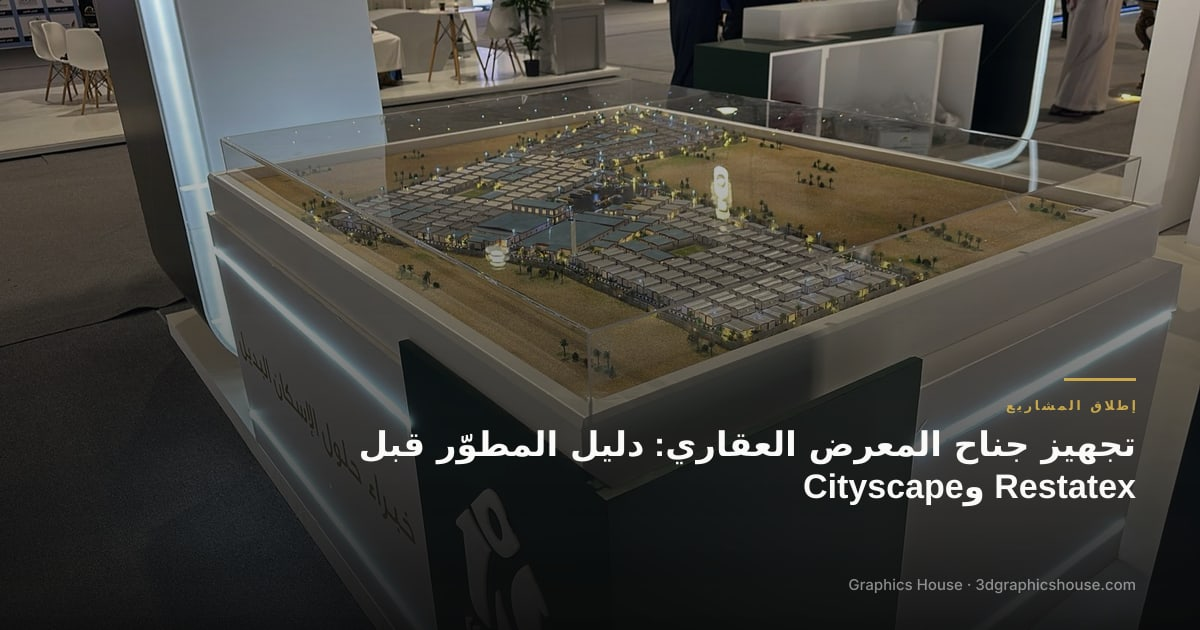
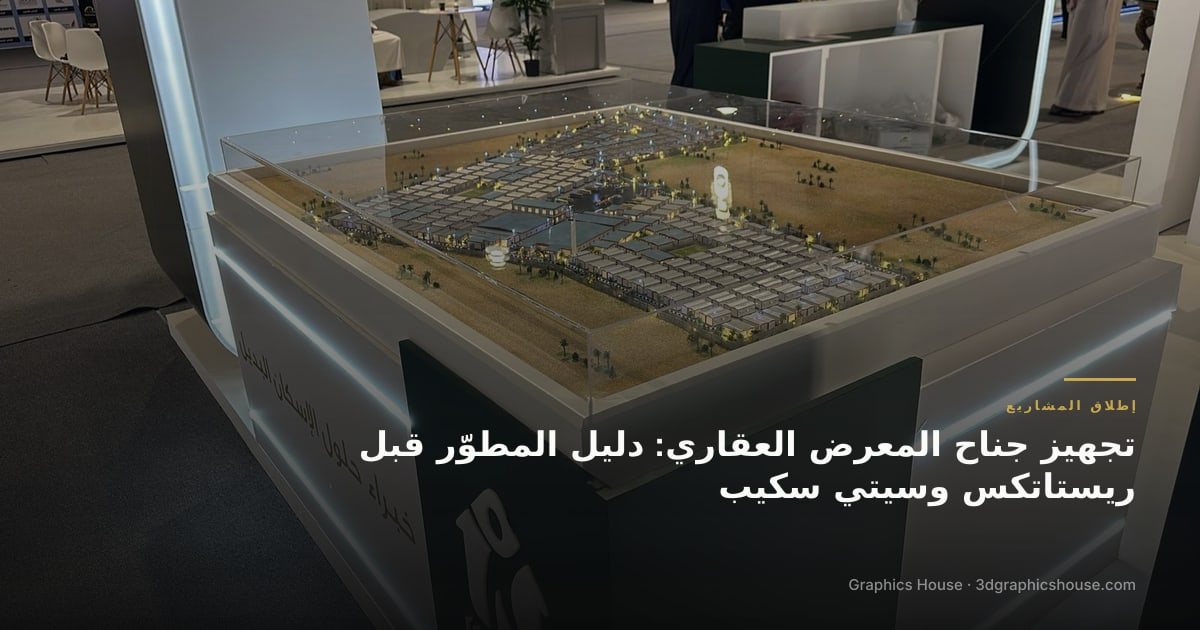
Exhibition guide: Arabic event names in AR title (fix bidi rendering)
Claude-Session: https://claude.ai/code/session_0136g4Ys7m3szXcukPZ2QjGd

Changed region(s): [[0.5858, 0.754, 0.9558, 0.8143]]

diff --git a/insights/articles/real-estate-exhibition-stand-guide.html b/insights/articles/real-estate-exhibition-stand-guide.html
@@ -24,21 +24,21 @@ gtag('config','G-Y67JVE898Z');gtag('config','G-NKM4H1FFBL');
 <link rel="alternate" hreflang="x-default" href="https://3dgraphicshouse.com/insights/articles/real-estate-exhibition-stand-guide-en.html">
 <meta charset="UTF-8">
 <meta name="viewport" content="width=device-width, initial-scale=1.0">
-<title>تجهيز جناح المعرض العقاري: دليل المطوّر قبل Restatex وCityscape | Graphics House</title>
-<meta name="description" content="دليل تجهيز جناح المعرض العقاري في السعودية: العناصر الخمسة، جدول زمني عكسي قبل Restatex وCityscape، المجسم والفيلم والشاشة التفاعلية، وأمثلة من مشاريع حقيقية."/>
+<title>تجهيز جناح المعرض العقاري: دليل المطوّر قبل ريستاتكس وسيتي سكيب | Graphics House</title>
+<meta name="description" content="دليل تجهيز جناح المعرض العقاري في السعودية: العناصر الخمسة، جدول زمني عكسي قبل معرضي ريستاتكس وسيتي سكيب، المجسم والفيلم والشاشة التفاعلية، وأمثلة من مشاريع حقيقية."/>
 <meta name="keywords" content="تجهيز جناح المعرض العقاري, جناح معرض عقاري, مجسم معرض عقاري, Restatex الرياض, كيف أجهز جناح شركة تطوير عقاري في معرض, متى أبدأ تجهيز جناح ريستاتكس, ماذا يحتاج جناح المطور في سيتي سكيب, مجسم تفاعلي لجناح معرض عقاري"/>
-<meta property="og:title" content="تجهيز جناح المعرض العقاري: دليل المطوّر قبل Restatex وCityscape | Graphics House">
-<meta property="og:description" content="دليل تجهيز جناح المعرض العقاري في السعودية: العناصر الخمسة، جدول زمني عكسي قبل Restatex وCityscape، المجسم والفيلم والشاشة التفاعلية، وأمثلة من مشاريع حقيقية.">
+<meta property="og:title" content="تجهيز جناح المعرض العقاري: دليل المطوّر قبل ريستاتكس وسيتي سكيب | Graphics House">
+<meta property="og:description" content="دليل تجهيز جناح المعرض العقاري في السعودية: العناصر الخمسة، جدول زمني عكسي قبل معرضي ريستاتكس وسيتي سكيب، المجسم والفيلم والشاشة التفاعلية، وأمثلة من مشاريع حقيقية.">
 <meta property="og:image" content="https://3dgraphicshouse.com/assets/insights/og/real-estate-exhibition-stand-guide.jpg">
 <meta property="og:url" content="https://3dgraphicshouse.com/insights/articles/real-estate-exhibition-stand-guide.html">
-<meta property="og:image:alt" content="تجهيز جناح المعرض العقاري: دليل المطوّر قبل Restatex وCityscape">
+<meta property="og:image:alt" content="تجهيز جناح المعرض العقاري: دليل المطوّر قبل ريستاتكس وسيتي سكيب">
 <meta property="og:image:width" content="1200">
 <meta property="og:image:height" content="630">
 <meta property="og:type" content="article">
 <meta property="og:site_name" content="Graphics House">
 <meta name="twitter:card" content="summary_large_image">
-<meta name="twitter:title" content="تجهيز جناح المعرض العقاري: دليل المطوّر قبل Restatex وCityscape | Graphics House">
-<meta name="twitter:description" content="دليل تجهيز جناح المعرض العقاري في السعودية: العناصر الخمسة، جدول زمني عكسي قبل Restatex وCityscape، المجسم والفيلم والشاشة التفاعلية، وأمثلة من مشاريع حقيقية.">
+<meta name="twitter:title" content="تجهيز جناح المعرض العقاري: دليل المطوّر قبل ريستاتكس وسيتي سكيب | Graphics House">
+<meta name="twitter:description" content="دليل تجهيز جناح المعرض العقاري في السعودية: العناصر الخمسة، جدول زمني عكسي قبل معرضي ريستاتكس وسيتي سكيب، المجسم والفيلم والشاشة التفاعلية، وأمثلة من مشاريع حقيقية.">
 <meta name="twitter:image" content="https://3dgraphicshouse.com/assets/insights/og/real-estate-exhibition-stand-guide.jpg">
 <meta property="article:published_time" content="2026-11-11">
 <meta property="article:modified_time" content="2026-11-11">
@@ -76,7 +76,7 @@ gtag('config','G-Y67JVE898Z');gtag('config','G-NKM4H1FFBL');
 <link rel="stylesheet" href="../../assets/gh-chat-assistant.css?v=11">
 </head>
 <body class="gh-insights">
-<script type="application/ld+json">{"@context":"https://schema.org","@graph":[{"@type":"Article","headline":"تجهيز جناح المعرض العقاري: دليل المطوّر قبل Restatex وCityscape","description":"دليل تجهيز جناح المعرض العقاري في السعودية: العناصر الخمسة، جدول زمني عكسي قبل Restatex وCityscape، المجسم والفيلم والشاشة التفاعلية، وأمثلة من مشاريع حقيقية.","image":"https://3dgraphicshouse.com/assets/insights/og/real-estate-exhibition-stand-guide.jpg","datePublished":"2026-11-11","dateModified":"2026-11-11","author":{"@type":"Person","name":"إبراهيم سلطان","jobTitle":"المؤسس والرئيس التنفيذي، Graphics House","url":"https://www.linkedin.com/in/ibrahimsultan-me","sameAs":["https://www.linkedin.com/in/ibrahimsultan-me"],"image":"https://3dgraphicshouse.com/assets/authors/ibrahim-sultan.jpg","worksFor":{"@type":"Organization","name":"Graphics House","url":"https://3dgraphicshouse.com"}},"keywords":"تجهيز جناح المعرض العقاري, جناح معرض عقاري, مجسم معرض عقاري, Restatex الرياض, كيف أجهز جناح شركة تطوير عقاري في معرض, متى أبدأ تجهيز جناح ريستاتكس, ماذا يحتاج جناح المطور في سيتي سكيب, مجسم تفاعلي لجناح معرض عقاري","publisher":{"@type":"Organization","name":"Graphics House","logo":{"@type":"ImageObject","url":"https://3dgraphicshouse.com/assets/favicon/og-image.png"}},"mainEntityOfPage":"https://3dgraphicshouse.com/insights/articles/real-estate-exhibition-stand-guide.html","inLanguage":"ar"},{"@type":"BreadcrumbList","itemListElement":[{"@type":"ListItem","position":1,"name":"الرئيسية","item":"https://3dgraphicshouse.com/"},{"@type":"ListItem","position":2,"name":"الرؤى","item":"https://3dgraphicshouse.com/insights/index.html"},{"@type":"ListItem","position":3,"name":"تجهيز جناح المعرض العقاري: دليل المطوّر قبل Restatex وCityscape","item":"https://3dgraphicshouse.com/insights/articles/real-estate-exhibition-stand-guide.html"}]},{"@context":"https://schema.org","@type":"FAQPage","mainEntity":[{"@type":"Question","name":"متى أبدأ تجهيز جناح المعرض العقاري؟","acceptedAnswer":{"@type":"Answer","text":"ابدأ قبل الافتتاح بعشرة إلى اثني عشر أسبوعاً إن كان الجناح سيضم مجسماً معمارياً، لأنه أطول عنصر تنفيذاً. الجناح الذي يعتمد على الشاشات والرندرات فقط يحتاج وقتاً أقل."}},{"@type":"Question","name":"هل يمكن عرض مشروع على الخارطة في معرض قبل رخصة البيع؟","acceptedAnswer":{"@type":"Answer","text":"لا. ينص نظام بيع وتأجير مشروعات عقارية على الخارطة على عدم الإعلان عن المشروع أو إقامة معارض له إلا إذا كان مرخصاً من الهيئة العامة للعقار. تحقق من حالة ترخيصك قبل حجز الجناح."}},{"@type":"Question","name":"ما مقاس المجسم المناسب لجناح المعرض؟","acceptedAnswer":{"@type":"Answer","text":"يحدده حجم الجناح ومسار الزوار حوله ومسافة المشاهدة، لا حجم المشروع وحده. اترك ممراً يسمح للزائر بالدوران حول المجسم. راجع العوامل التي تحدد سعر المجسم ومقاسه."}},{"@type":"Question","name":"هل يحتاج الجناح مجسماً ذكياً أم يكفي مجسم ثابت؟","acceptedAnswer":{"@type":"Answer","text":"المجسم الذكي يستحق تكلفته حين يختار المشتري بين مراحل ووحدات كثيرة. البرج الواحد بأنواع وحدات قليلة يكفيه غالباً مجسم ثابت مفصّل مع رندرات قوية. التفاصيل في متى تحتاج مجسماً ذكياً."}},{"@type":"Question","name":"هل يمكن استخدام عناصر الجناح بعد المعرض؟","acceptedAnswer":{"@type":"Answer","text":"نعم في الغالب. المجسم والفيلم والشاشة التفاعلية تنتقل إلى صالة البيع أو مكتب المبيعات، لذلك يفيد تصميمها من البداية لتعمل في المكانين."}}],"url":"https://3dgraphicshouse.com/insights/articles/real-estate-exhibition-stand-guide.html"}]}</script>
+<script type="application/ld+json">{"@context":"https://schema.org","@graph":[{"@type":"Article","headline":"تجهيز جناح المعرض العقاري: دليل المطوّر قبل ريستاتكس وسيتي سكيب","description":"دليل تجهيز جناح المعرض العقاري في السعودية: العناصر الخمسة، جدول زمني عكسي قبل معرضي ريستاتكس وسيتي سكيب، المجسم والفيلم والشاشة التفاعلية، وأمثلة من مشاريع حقيقية.","image":"https://3dgraphicshouse.com/assets/insights/og/real-estate-exhibition-stand-guide.jpg","datePublished":"2026-11-11","dateModified":"2026-11-11","author":{"@type":"Person","name":"إبراهيم سلطان","jobTitle":"المؤسس والرئيس التنفيذي، Graphics House","url":"https://www.linkedin.com/in/ibrahimsultan-me","sameAs":["https://www.linkedin.com/in/ibrahimsultan-me"],"image":"https://3dgraphicshouse.com/assets/authors/ibrahim-sultan.jpg","worksFor":{"@type":"Organization","name":"Graphics House","url":"https://3dgraphicshouse.com"}},"keywords":"تجهيز جناح المعرض العقاري, جناح معرض عقاري, مجسم معرض عقاري, Restatex الرياض, كيف أجهز جناح شركة تطوير عقاري في معرض, متى أبدأ تجهيز جناح ريستاتكس, ماذا يحتاج جناح المطور في سيتي سكيب, مجسم تفاعلي لجناح معرض عقاري","publisher":{"@type":"Organization","name":"Graphics House","logo":{"@type":"ImageObject","url":"https://3dgraphicshouse.com/assets/favicon/og-image.png"}},"mainEntityOfPage":"https://3dgraphicshouse.com/insights/articles/real-estate-exhibition-stand-guide.html","inLanguage":"ar"},{"@type":"BreadcrumbList","itemListElement":[{"@type":"ListItem","position":1,"name":"الرئيسية","item":"https://3dgraphicshouse.com/"},{"@type":"ListItem","position":2,"name":"الرؤى","item":"https://3dgraphicshouse.com/insights/index.html"},{"@type":"ListItem","position":3,"name":"تجهيز جناح المعرض العقاري: دليل المطوّر قبل ريستاتكس وسيتي سكيب","item":"https://3dgraphicshouse.com/insights/articles/real-estate-exhibition-stand-guide.html"}]},{"@context":"https://schema.org","@type":"FAQPage","mainEntity":[{"@type":"Question","name":"متى أبدأ تجهيز جناح المعرض العقاري؟","acceptedAnswer":{"@type":"Answer","text":"ابدأ قبل الافتتاح بعشرة إلى اثني عشر أسبوعاً إن كان الجناح سيضم مجسماً معمارياً، لأنه أطول عنصر تنفيذاً. الجناح الذي يعتمد على الشاشات والرندرات فقط يحتاج وقتاً أقل."}},{"@type":"Question","name":"هل يمكن عرض مشروع على الخارطة في معرض قبل رخصة البيع؟","acceptedAnswer":{"@type":"Answer","text":"لا. ينص نظام بيع وتأجير مشروعات عقارية على الخارطة على عدم الإعلان عن المشروع أو إقامة معارض له إلا إذا كان مرخصاً من الهيئة العامة للعقار. تحقق من حالة ترخيصك قبل حجز الجناح."}},{"@type":"Question","name":"ما مقاس المجسم المناسب لجناح المعرض؟","acceptedAnswer":{"@type":"Answer","text":"يحدده حجم الجناح ومسار الزوار حوله ومسافة المشاهدة، لا حجم المشروع وحده. اترك ممراً يسمح للزائر بالدوران حول المجسم. راجع العوامل التي تحدد سعر المجسم ومقاسه."}},{"@type":"Question","name":"هل يحتاج الجناح مجسماً ذكياً أم يكفي مجسم ثابت؟","acceptedAnswer":{"@type":"Answer","text":"المجسم الذكي يستحق تكلفته حين يختار المشتري بين مراحل ووحدات كثيرة. البرج الواحد بأنواع وحدات قليلة يكفيه غالباً مجسم ثابت مفصّل مع رندرات قوية. التفاصيل في متى تحتاج مجسماً ذكياً."}},{"@type":"Question","name":"هل يمكن استخدام عناصر الجناح بعد المعرض؟","acceptedAnswer":{"@type":"Answer","text":"نعم في الغالب. المجسم والفيلم والشاشة التفاعلية تنتقل إلى صالة البيع أو مكتب المبيعات، لذلك يفيد تصميمها من البداية لتعمل في المكانين."}}],"url":"https://3dgraphicshouse.com/insights/articles/real-estate-exhibition-stand-guide.html"}]}</script>
 <a class="gh-skip-link" href="#main-content">تخطي إلى المحتوى الرئيسي</a>
 <header class="header" id="header">
   <div class="container header-inner">
@@ -247,7 +247,7 @@ gtag('config','G-Y67JVE898Z');gtag('config','G-NKM4H1FFBL');
     <span aria-hidden="true">◂</span>
     <span class="gh-art-breadcrumb-cat">إطلاق المشاريع</span>
     <span aria-hidden="true">◂</span>
-    <span class="gh-art-breadcrumb-current" aria-current="page">تجهيز جناح المعرض العقاري: دليل المطوّر قبل R…</span>
+    <span class="gh-art-breadcrumb-current" aria-current="page">تجهيز جناح المعرض العقاري: دليل المطوّر قبل ر…</span>
   </nav>
     <a href="../index.html" class="gh-back-link">
       <span class="material-symbols-outlined" style="font-size:16px">arrow_forward</span>
@@ -257,7 +257,7 @@ gtag('config','G-Y67JVE898Z');gtag('config','G-NKM4H1FFBL');
       <article class="gh-article-main">
         <header class="gh-article-header">
           <span class="gh-ins-cat">إطلاق المشاريع</span>
-          <h1>تجهيز جناح المعرض العقاري: دليل المطوّر قبل Restatex وCityscape</h1>
+          <h1>تجهيز جناح المعرض العقاري: دليل المطوّر قبل ريستاتكس وسيتي سكيب</h1>
           <p class="gh-dek">ماذا يحتاج جناح المطوّر ليوقف الزائر ويحوّله إلى موعد: خمسة عناصر، وجدول عكسي من يوم الافتتاح، ودروس من أجنحة نفّذناها.</p>
           <div class="gh-art-author">
     <img class="gh-art-author-photo" src="../../assets/authors/ibrahim-sultan.jpg" alt="إبراهيم سلطان" width="44" height="44" loading="eager">
@@ -276,10 +276,10 @@ gtag('config','G-Y67JVE898Z');gtag('config','G-NKM4H1FFBL');
     <a class="gh-art-share-btn" href="https://www.linkedin.com/sharing/share-offsite/?url=https%3A%2F%2F3dgraphicshouse.com%2Finsights%2Farticles%2Freal-estate-exhibition-stand-guide.html" target="_blank" rel="noopener noreferrer" aria-label="LinkedIn">
       <span class="material-symbols-outlined" aria-hidden="true">share</span><span>LinkedIn</span>
     </a>
-    <a class="gh-art-share-btn" href="https://twitter.com/intent/tweet?url=https%3A%2F%2F3dgraphicshouse.com%2Finsights%2Farticles%2Freal-estate-exhibition-stand-guide.html&text=%D8%AA%D8%AC%D9%87%D9%8A%D8%B2%20%D8%AC%D9%86%D8%A7%D8%AD%20%D8%A7%D9%84%D9%85%D8%B9%D8%B1%D8%B6%20%D8%A7%D9%84%D8%B9%D9%82%D8%A7%D8%B1%D9%8A%3A%20%D8%AF%D9%84%D9%8A%D9%84%20%D8%A7%D9%84%D9%85%D8%B7%D9%88%D9%91%D8%B1%20%D9%82%D8%A8%D9%84%20Restatex%20%D9%88Cityscape" target="_blank" rel="noopener noreferrer" aria-label="X">
+    <a class="gh-art-share-btn" href="https://twitter.com/intent/tweet?url=https%3A%2F%2F3dgraphicshouse.com%2Finsights%2Farticles%2Freal-estate-exhibition-stand-guide.html&text=%D8%AA%D8%AC%D9%87%D9%8A%D8%B2%20%D8%AC%D9%86%D8%A7%D8%AD%20%D8%A7%D9%84%D9%85%D8%B9%D8%B1%D8%B6%20%D8%A7%D9%84%D8%B9%D9%82%D8%A7%D8%B1%D9%8A%3A%20%D8%AF%D9%84%D9%8A%D9%84%20%D8%A7%D9%84%D9%85%D8%B7%D9%88%D9%91%D8%B1%20%D9%82%D8%A8%D9%84%20%D8%B1%D9%8A%D8%B3%D8%AA%D8%A7%D8%AA%D9%83%D8%B3%20%D9%88%D8%B3%D9%8A%D8%AA%D9%8A%20%D8%B3%D9%83%D9%8A%D8%A8" target="_blank" rel="noopener noreferrer" aria-label="X">
       <span class="material-symbols-outlined" aria-hidden="true">tag</span><span>X</span>
     </a>
-    <a class="gh-art-share-btn" href="https://wa.me/?text=%D8%AA%D8%AC%D9%87%D9%8A%D8%B2%20%D8%AC%D9%86%D8%A7%D8%AD%20%D8%A7%D9%84%D9%85%D8%B9%D8%B1%D8%B6%20%D8%A7%D9%84%D8%B9%D9%82%D8%A7%D8%B1%D9%8A%3A%20%D8%AF%D9%84%D9%8A%D9%84%20%D8%A7%D9%84%D9%85%D8%B7%D9%88%D9%91%D8%B1%20%D9%82%D8%A8%D9%84%20Restatex%20%D9%88Cityscape%20https%3A%2F%2F3dgraphicshouse.com%2Finsights%2Farticles%2Freal-estate-exhibition-stand-guide.html" target="_blank" rel="noopener noreferrer" aria-label="واتساب">
+    <a class="gh-art-share-btn" href="https://wa.me/?text=%D8%AA%D8%AC%D9%87%D9%8A%D8%B2%20%D8%AC%D9%86%D8%A7%D8%AD%20%D8%A7%D9%84%D9%85%D8%B9%D8%B1%D8%B6%20%D8%A7%D9%84%D8%B9%D9%82%D8%A7%D8%B1%D9%8A%3A%20%D8%AF%D9%84%D9%8A%D9%84%20%D8%A7%D9%84%D9%85%D8%B7%D9%88%D9%91%D8%B1%20%D9%82%D8%A8%D9%84%20%D8%B1%D9%8A%D8%B3%D8%AA%D8%A7%D8%AA%D9%83%D8%B3%20%D9%88%D8%B3%D9%8A%D8%AA%D9%8A%20%D8%B3%D9%83%D9%8A%D8%A8%20https%3A%2F%2F3dgraphicshouse.com%2Finsights%2Farticles%2Freal-estate-exhibition-stand-guide.html" target="_blank" rel="noopener noreferrer" aria-label="واتساب">
       <span class="material-symbols-outlined" aria-hidden="true">chat</span><span>واتساب</span>
     </a>
     <button type="button" class="gh-art-share-btn" data-gh-copy-link data-copied-label="تم نسخ الرابط" aria-label="نسخ الرابط">
@@ -287,7 +287,7 @@ gtag('config','G-Y67JVE898Z');gtag('config','G-NKM4H1FFBL');
     </button>
   </div>
         </header>
-        <img class="gh-article-hero-img" src="../../assets/projects/maquettes/anan-eskan-maquette-01.jpeg" alt="تجهيز جناح المعرض العقاري: دليل المطوّر قبل Restatex وCityscape" loading="eager" fetchpriority="high">
+        <img class="gh-article-hero-img" src="../../assets/projects/maquettes/anan-eskan-maquette-01.jpeg" alt="تجهيز جناح المعرض العقاري: دليل المطوّر قبل ريستاتكس وسيتي سكيب" loading="eager" fetchpriority="high">
         <p class="gh-art-image-credit">Graphics House، مجسم عنان إسكان في جناح المعرض</p>
         <div class="gh-article-body-wrap">
           <div class="gh-art-tldr">

diff --git a/insights/index.html b/insights/index.html
@@ -297,13 +297,13 @@ gtag('config','G-Y67JVE898Z');gtag('config','G-NKM4H1FFBL');
 </article>
 <article class="gh-ins-card" data-gh-article-cat="إطلاق المشاريع">
  <a href="articles/real-estate-exhibition-stand-guide.html" class="gh-ins-card-link">
- <figure class="gh-ins-card-media"><img src="../assets/projects/maquettes/anan-eskan-maquette-01.jpeg" alt="تجهيز جناح المعرض العقاري: دليل المطوّر قبل Restatex وCityscape" loading="lazy"></figure>
+ <figure class="gh-ins-card-media"><img src="../assets/projects/maquettes/anan-eskan-maquette-01.jpeg" alt="تجهيز جناح المعرض العقاري: دليل المطوّر قبل ريستاتكس وسيتي سكيب" loading="lazy"></figure>
  <div class="gh-ins-card-body">
  <div class="gh-ins-card-meta">
  <span class="gh-ins-cat">إطلاق المشاريع</span>
  <span class="gh-ins-read-time">4 دقائق</span>
  </div>
- <h3>تجهيز جناح المعرض العقاري: دليل المطوّر قبل Restatex وCityscape</h3>
+ <h3>تجهيز جناح المعرض العقاري: دليل المطوّر قبل ريستاتكس وسيتي سكيب</h3>
  <p class="gh-ins-card-excerpt">ماذا يحتاج جناح المطوّر ليوقف الزائر ويحوّله إلى موعد: خمسة عناصر، وجدول عكسي من يوم الافتتاح، ودروس من أجنحة نفّذناها.</p>
  <span class="gh-ins-read-more">اقرأ المزيد <span class="material-symbols-outlined" style="font-size:14px">arrow_back</span></span>
  </div>
